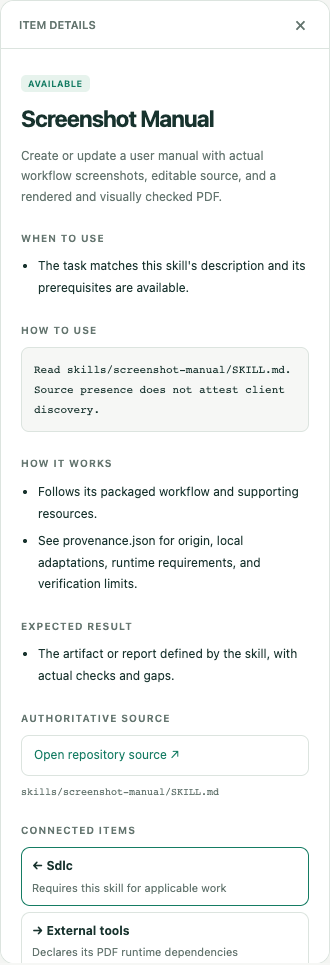
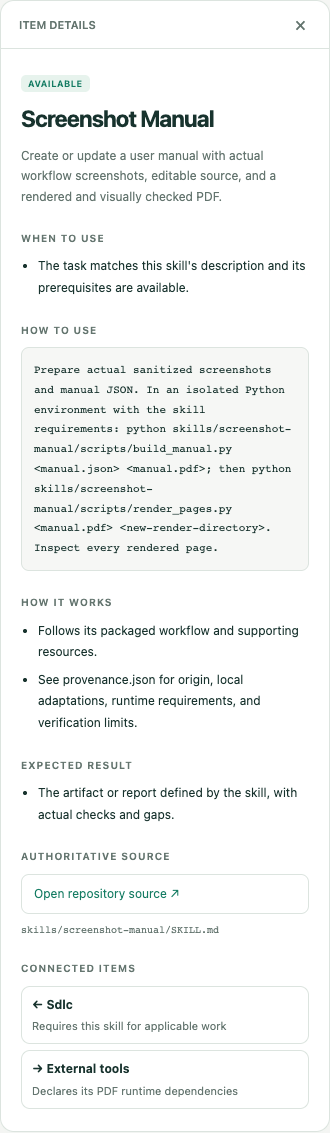
Refresh catalog manual and clarify imported package limits

diff --git a/docs/upstream/README.md b/docs/upstream/README.md
@@ -10,6 +10,9 @@ paths, local changes, dependencies, and validation limits. Public upstream impor
 retain their license beside the skill. Required Addy checklists are included inside
 the review package so a selected installation does not lose root-level resources.
 Portable policies carry attribution and license information in their source.
+`license_path` identifies the license in the upstream repository; the redistributed
+license is always `skills/<name>/LICENSE`. Archify also retains third-party terms
+in its `THIRD_PARTY_NOTICES.md`; the root MIT license does not replace those terms.
 
 The [external tool registry](../../tools/registry.json) separately owns executable
 and connection dependencies. Client MCP examples live under `mcp/claude-code/`;
@@ -55,3 +58,16 @@ Graft and other optional toolchains are deferred to keep the requested minimum.
 Source presence, structural validation, executable checks, and real client behavior
 are separate claims. No account installation, external publication, or complete
 SDLC behavioral evaluation was performed by this import.
+
+## Source-package limitations
+
+- Archify's bundled `package.json` and some tests retain upstream monorepo commands
+  that refer to sibling `scripts/` and `viewer/` directories absent here. Do not use
+  its `npm test` as this checkout's validation command. The checked portable entry
+  is `node skills/archify/bin/archify.mjs doctor`; demo rendering was also exercised.
+  These checks do not establish the full custom-diagram finalize/provenance workflow.
+- The imported AK SDLC still uses `AK` as the authorizer label for reviewer-effort
+  overrides and retains historical repository-layout examples in its playbook.
+  It is an AK workflow building block, not a fully generalized principal/host adapter.
+  Apply the destination project's actual instructions and layout. No historical
+  source sentence creates publication authority for a new user or repository.

diff --git a/policies/architecture.md b/policies/architecture.md
@@ -2,8 +2,10 @@
 
 Applied at spec time, not after implementation.
 
-- Architecture boundaries and invariants are defined in `AGENTS.md`; specs must
-  state which boundaries a change touches.
+- Use the destination project's documented architecture boundaries and invariants
+  (for example, its own `AGENTS.md` or architecture documents). Specs must state
+  which boundaries a change touches. This collection's maintenance instructions
+  do not define another project's system architecture.
 - Prefer extending existing patterns over introducing new ones; new patterns
   require an "Alternatives considered" section in the spec.
 - Cross-cutting or multi-module changes require a dependency graph in the plan

diff --git a/docs/manual/README.md b/docs/manual/README.md
@@ -6,7 +6,8 @@ are maintained together. This is a toolchain example, not a complete client inst
 
 The screenshot was captured from the local generated map on 2026-10-17 using an
 isolated Playwright browser, with Screenshot Manual selected. It contains repository
-content only. The PDF was rendered with PDFium and its single page was visually
+content only. The captured How to use text was compared with the current catalog
+entry, and the full detail panel was visible without internal clipping. The PDF was rendered with PDFium and its single page was visually
 checked for readable text, screenshot placement, margins, and footer.
 
 After installing the dependencies documented in
